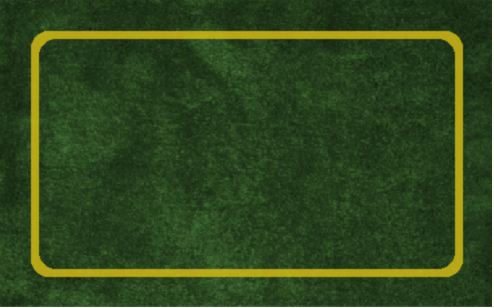
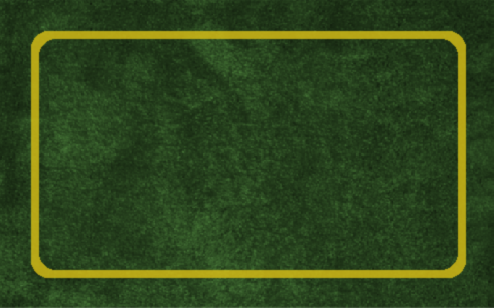
amélioration du menu : positionnement des paquets et des noms des joueurs. Fond d'écran ;-)

Changed region(s): [[0.0, 0.0, 1.0, 1.0]]

diff --git a/cardWar/src/app/game/game.component.css b/cardWar/src/app/game/game.component.css
@@ -4,6 +4,9 @@
     height:308px;
     width:494px;
     margin-top:20px;
+    font-family: calibri;
+    font-weight: bold;
+    color: rgb(255, 251, 0);
 }
 
 #bot-pack, #player-pack {
@@ -13,9 +16,26 @@
     height:76.25px;
     width:54.5px;
     margin: 0 auto;
+    position:absolute;
+    margin-left: 220px;   
+}
+
+#bot-pack {
+    margin-top: 10px;
 }
 
 #player-pack {
-    position:relative;
-    bottom:0;
+    margin-top: 220px;
+}
+
+#warbot {
+    margin-left : -80px;
+    margin-top: -5px;
+    font-size: 20px;
+}
+
+#player {
+    margin-left: 68px;
+    margin-top: 56px;
+    font-size: 20px;
 }

diff --git a/cardWar/src/app/game/game.component.html b/cardWar/src/app/game/game.component.html
@@ -1,8 +1,8 @@
 <div id = "game">
-    <div></div>
-   <div id = "bot-pack" onclick="javascript:tafonction();" style="cursor:pointer;" >
+   <div id = "bot-pack">
+       <p id="warbot">WarBot</p>
    </div>
-
    <div id = "player-pack" onclick="javascript:tafonction();" style="cursor:pointer;" >
-    </div>
+        <p id="player">player<!-- Pseudo du joueur à ajouter !--></p>
+   </div>
 </div>

diff --git a/cardWar/src/styles.css b/cardWar/src/styles.css
@@ -1,4 +1,5 @@
 /* You can add global styles to this file, and also import other style files */
 body {
-    /*/background-image: url("./app/img/cards.jpg");/*/
+    background-image: url("./app/img/cards.jpg");
+    background-repeat: repeat;
 }
